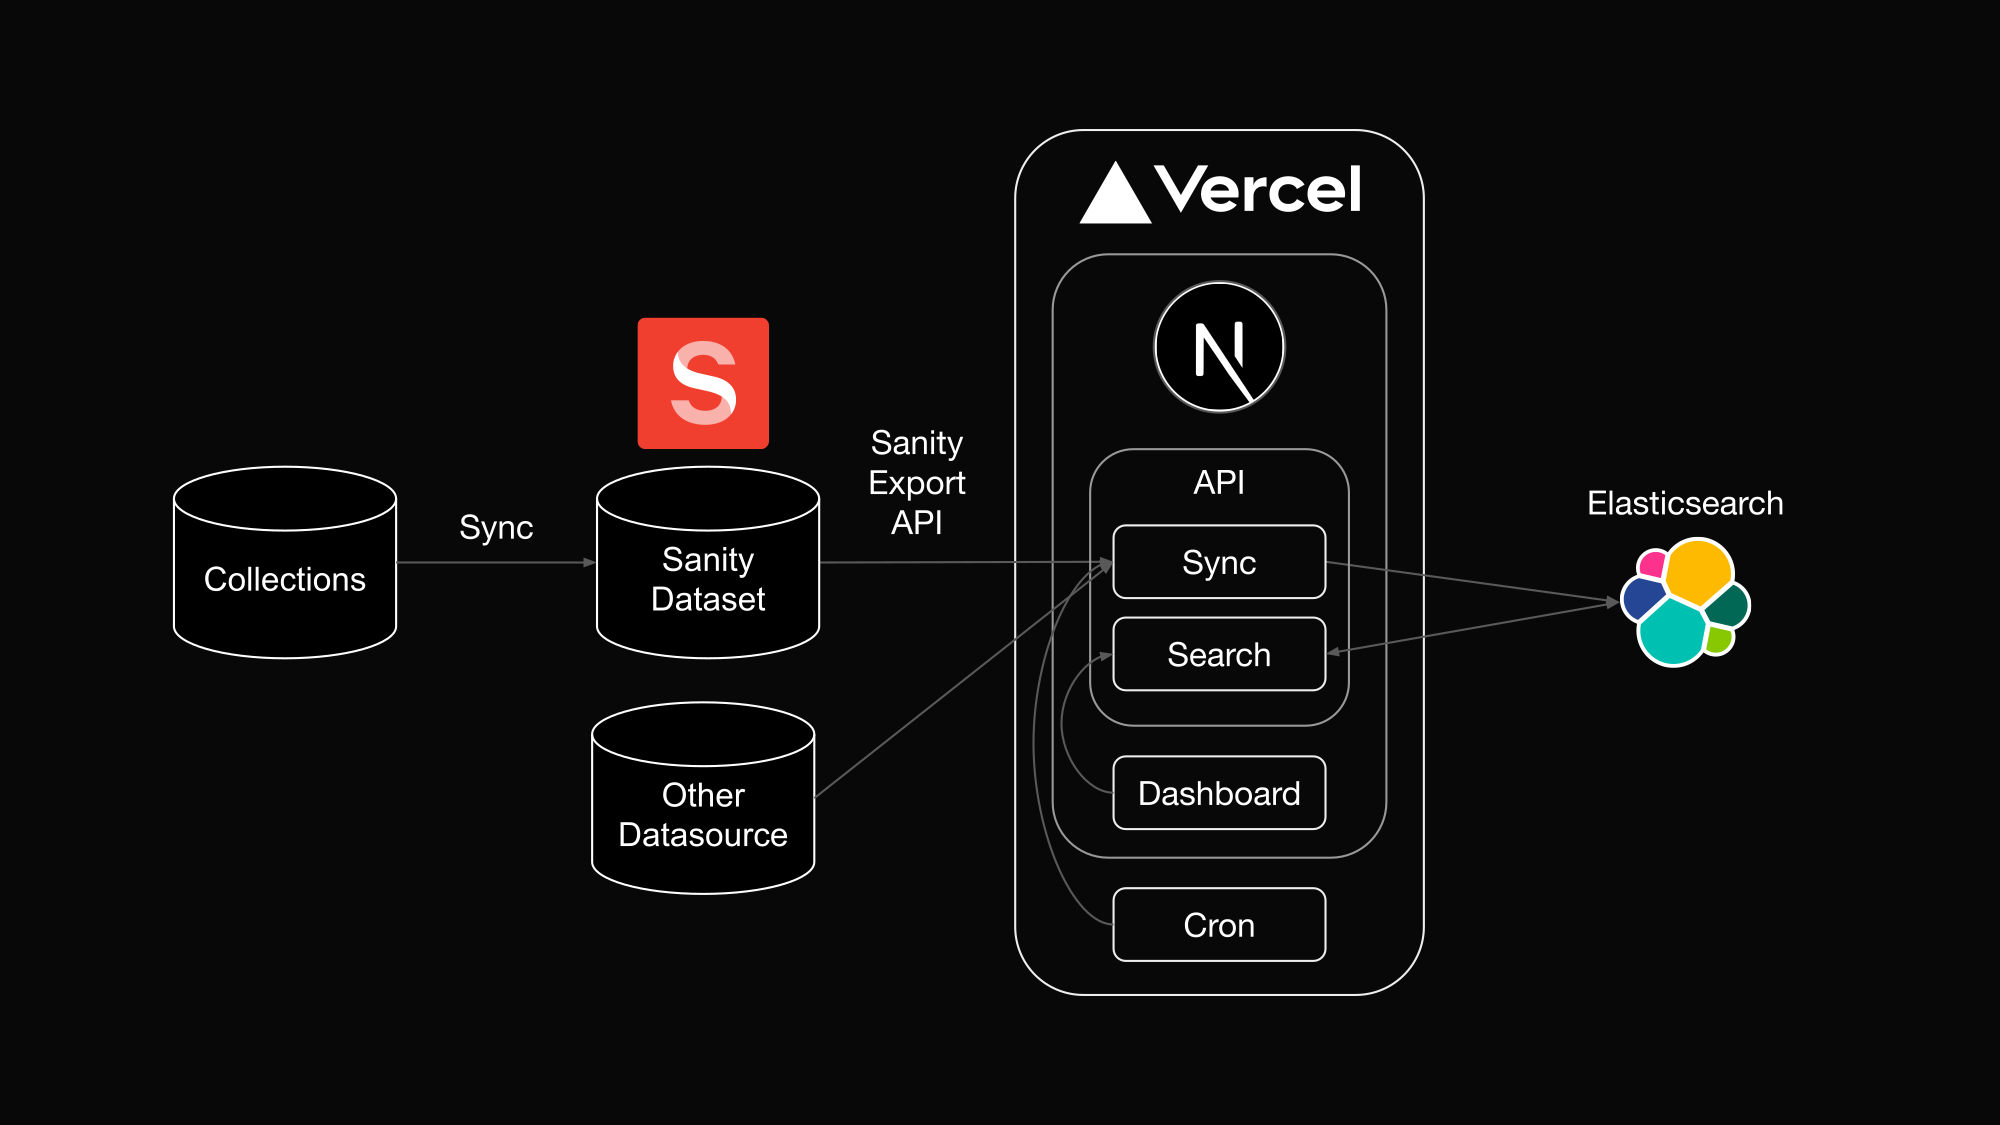
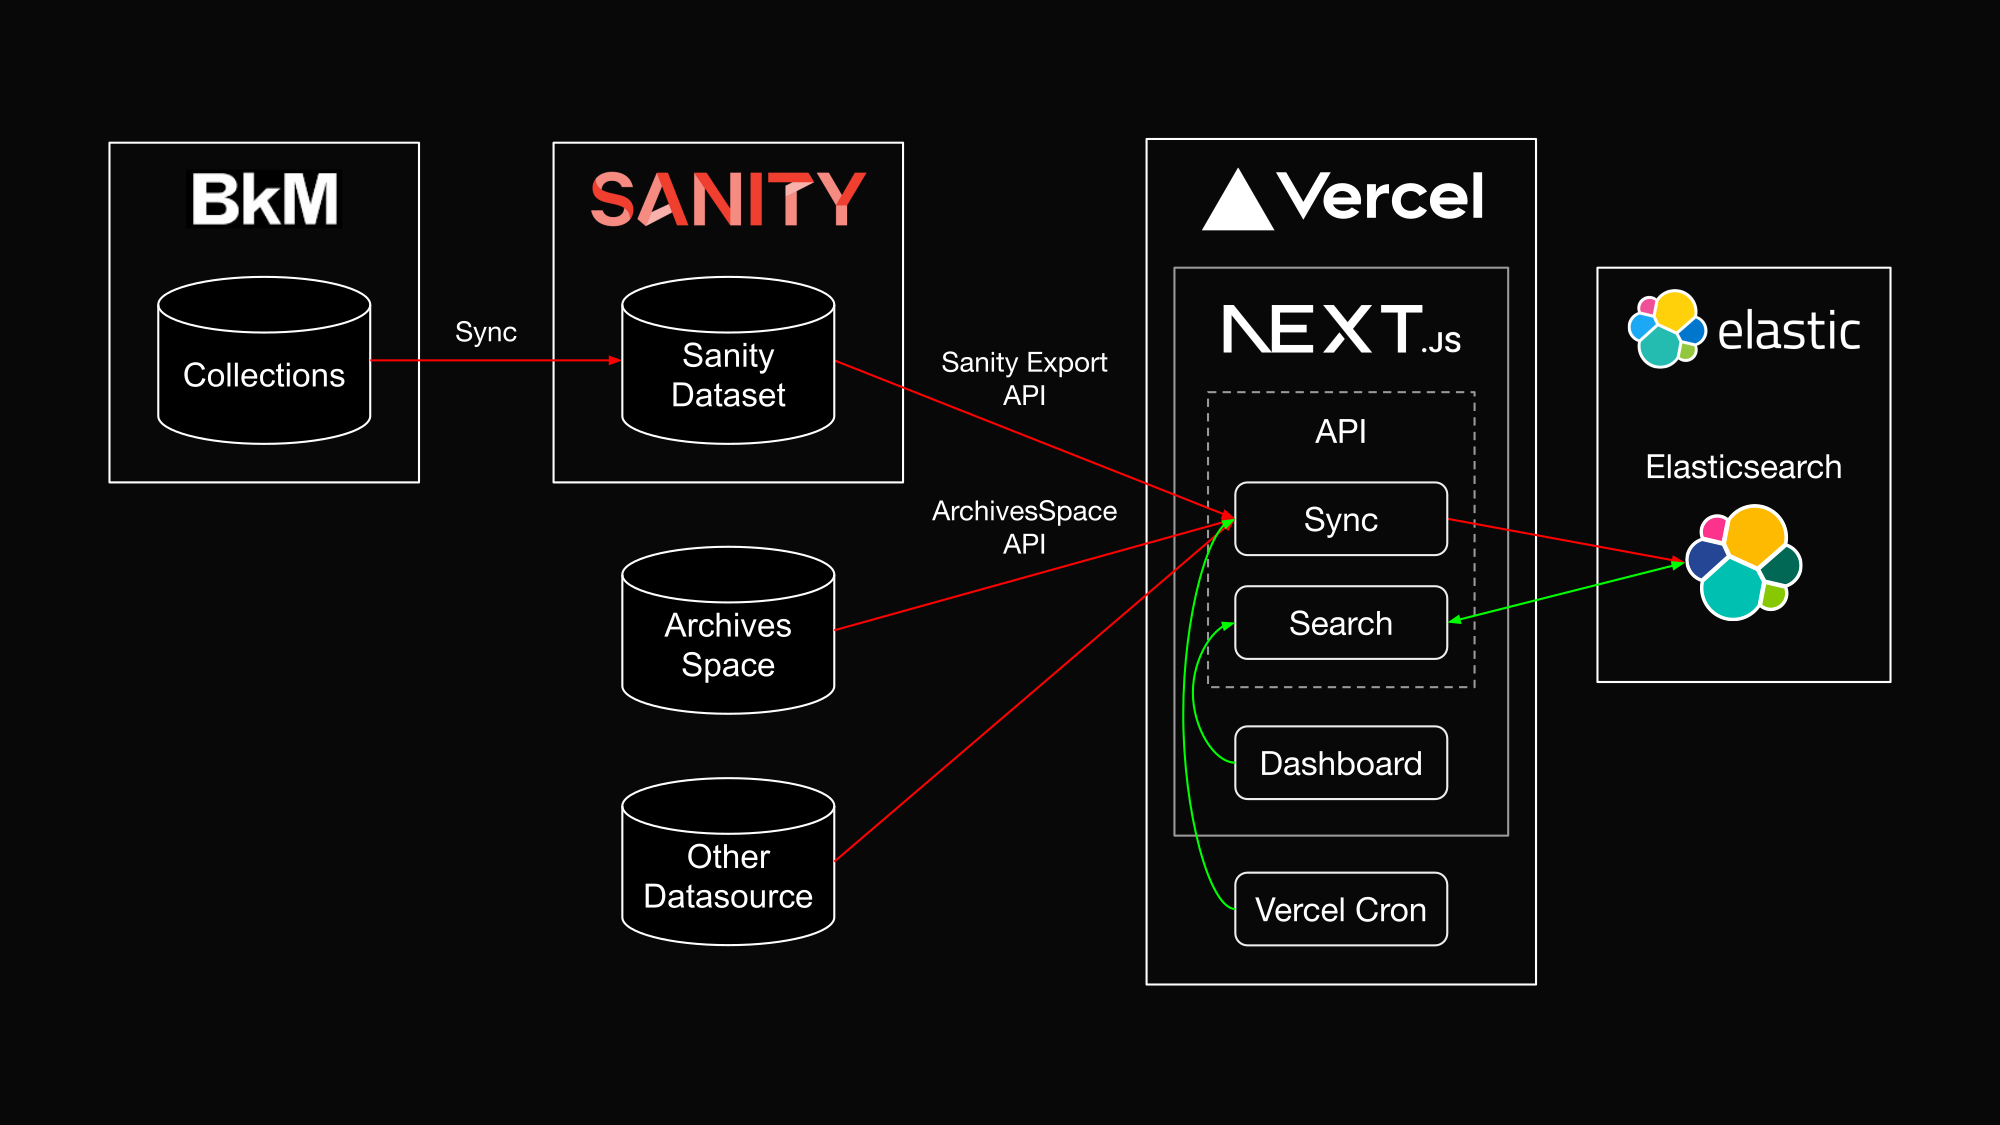
options api wildcard, update docs

diff --git a/src/lib/elasticsearch/api/options.ts b/src/lib/elasticsearch/api/options.ts
@@ -40,13 +40,12 @@ export async function options(
     },
   };
 
-  // https://www.elastic.co/guide/en/elasticsearch/reference/current/query-dsl-fuzzy-query.html
   if (query) {
+    const wildcardQuery = `*${query}*`;
     request.query = {
-      match: {
+      wildcard: {
         [`${field}.search`]: {
-          query,
-          fuzziness: 'AUTO',
+          value: wildcardQuery,
         },
       },
     };

diff --git a/README.md b/README.md
@@ -1,8 +1,24 @@
 # bkm-elasticsearch-search-api
 
-## Architecture
+## System Design
 
 ![Search Architecture](./docs/img/architecture.png)
+
+[Diagram Link](https://docs.google.com/presentation/d/1SFEbPwCiJGZgYmpTX07yaUYXWs0Hl61msZQBlxooPJo/edit?usp=sharing)
+
+## Datasources
+
+### Sanity
+
+Sanity is the primary datasource for the search API. It uses Sanity's [Export](https://www.sanity.io/docs/export) to export all documents in a dataset.
+
+### ArchivesSpace
+
+ArchivesSpace holds BkM Archives data. The search API syncs ArchivesSpace data via the API [tech-docs](https://archivesspace.github.io/tech-docs/api/), [documentation](https://archivesspace.github.io/archivesspace/api/#introduction)
+
+Note: Rather than crawling all documents within ArchivesSpace, ideally we would use a last modified date to limit the crawl to recently updated documents. Unfortunately this capability is not currently available in the ArchivesSpace API. See [this discussion](http://lyralists.lyrasis.org/pipermail/archivesspace_users_group/2019-November/007101.html):
+
+> Ideally, we would be able to add a 'modified_since' parameter to each entity's endpoint to get the most recent set. The capability exists in the code, but hasn't been exposed to the REST end-point.
 
 ## Unified Search Fields
 
